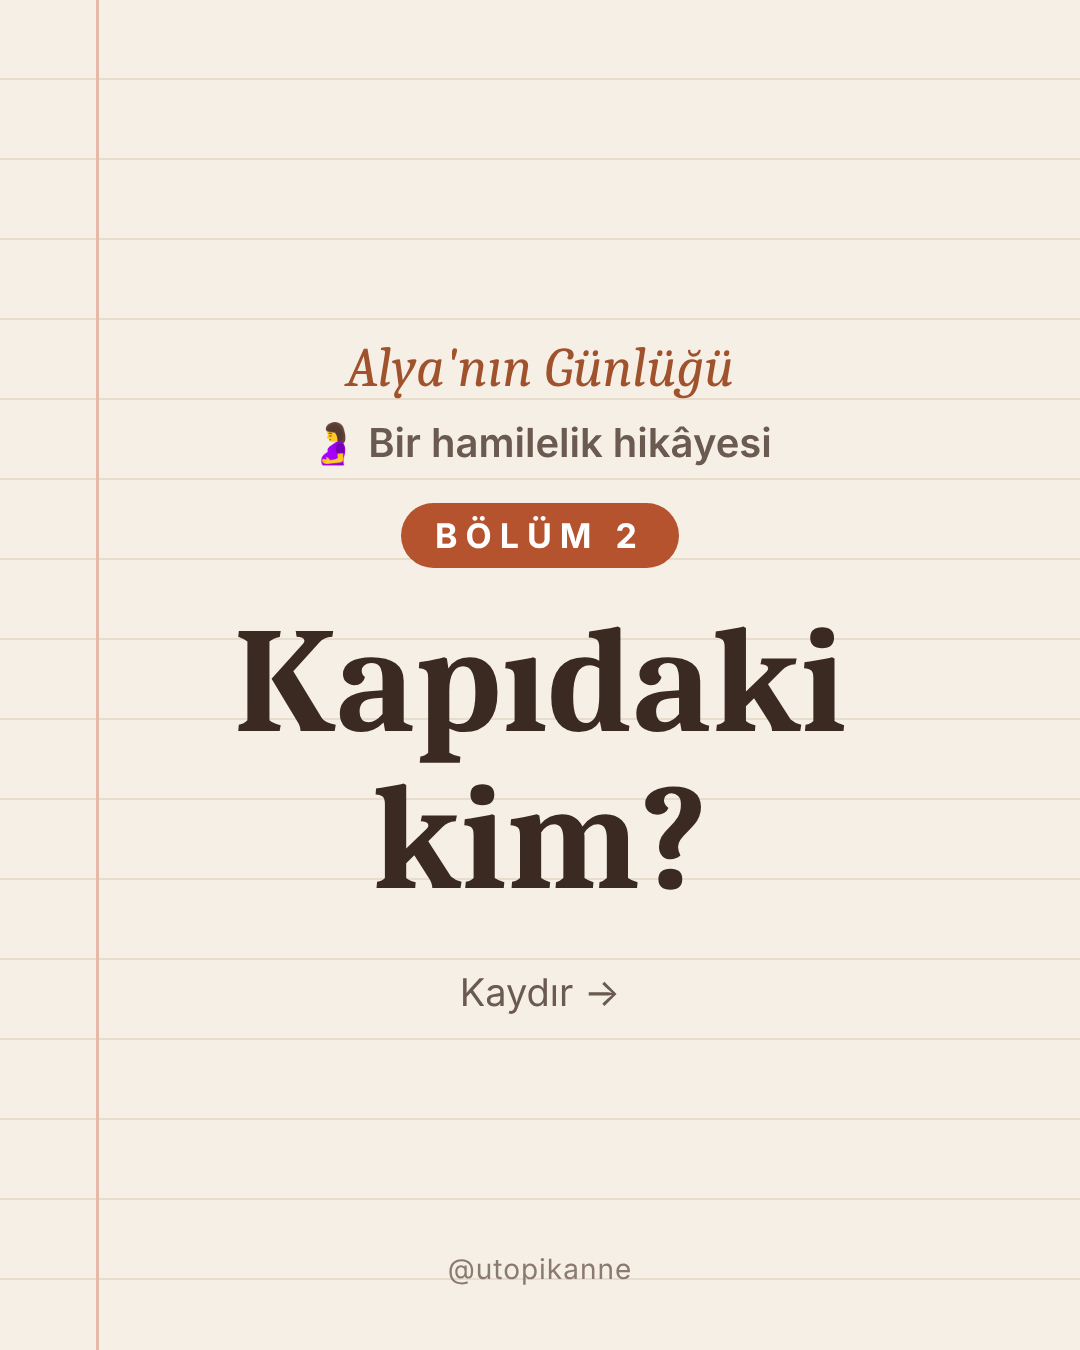
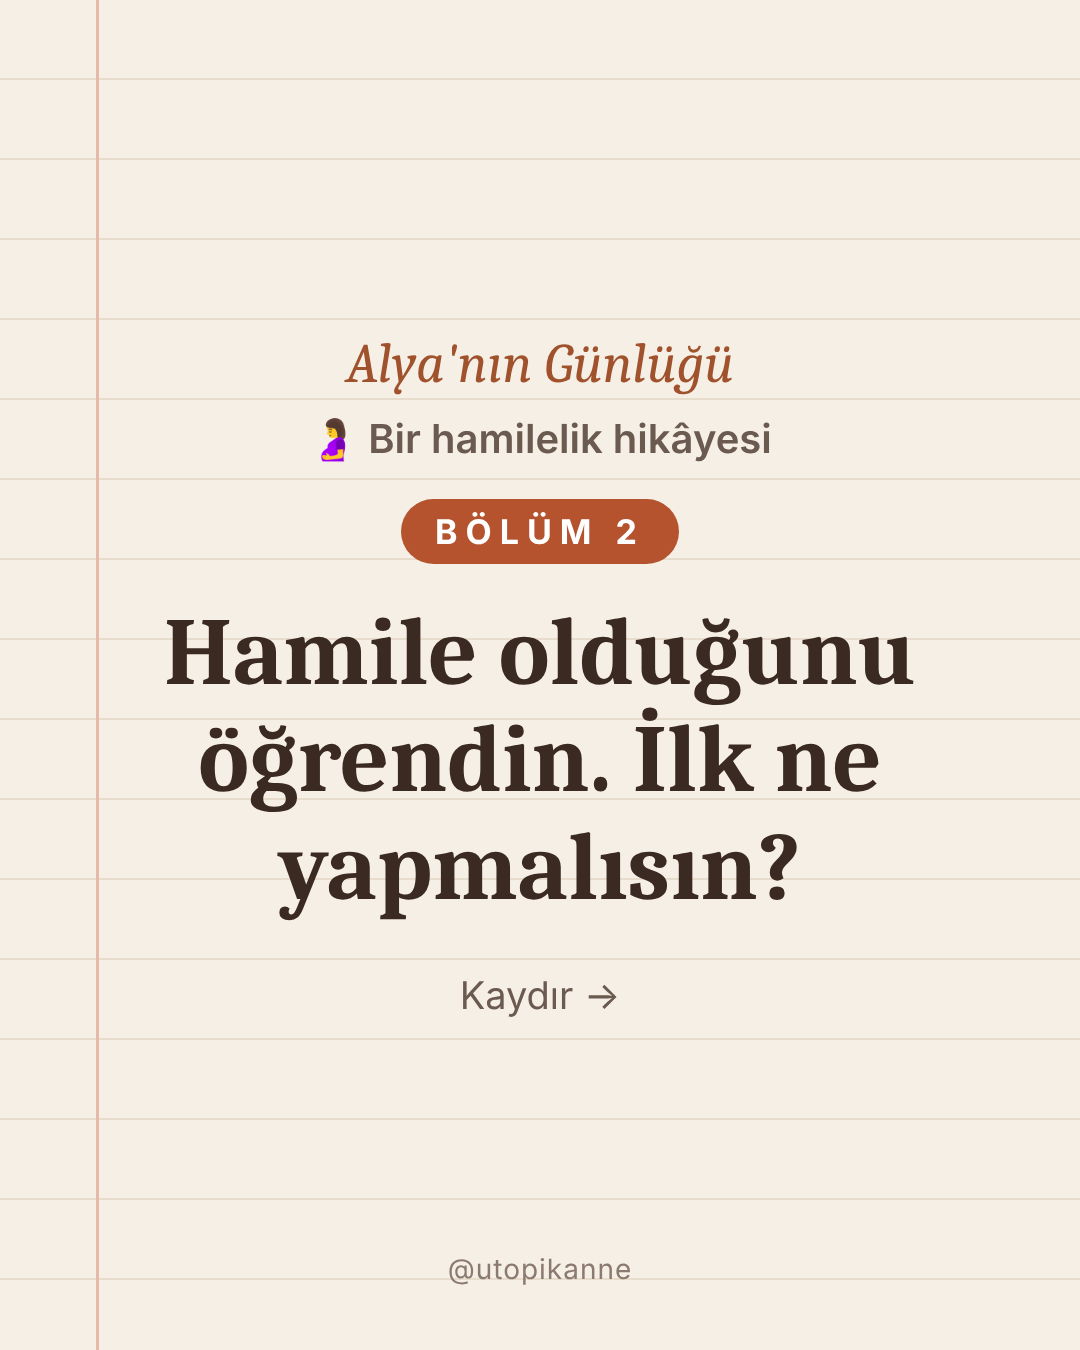
utopikanne: Alya Bölüm 2, bilgi sohbetin içinde, soru kapak
Claude-Session: https://claude.ai/code/session_01QGX4XsF2fmNtuvzmoWMg9N

diff --git a/araclar/alya_sohbet.py b/araclar/alya_sohbet.py
@@ -33,11 +33,12 @@ body:before{content:"";position:absolute;left:96px;top:0;bottom:0;width:3px;back
 .kapak .b{font-size:34px;font-weight:700;letter-spacing:8px;color:#fff;background:#B5532E;padding:12px 34px;border-radius:40px;margin:36px 0}
 .kapak .t{font-size:40px;font-weight:600;color:#6B5A50;margin-top:18px}
 .kapak h1{font-family:"Caladea",serif;font-size:150px;line-height:1.05;color:#3B2A22}
+.kapak h1.uzun{font-size:96px;line-height:1.12}
 .kapak .k{font-size:38px;color:#6B5A50;margin-top:50px}"""
 def sayfa(govde): return f'<!doctype html><html lang="tr"><head><meta charset="utf-8"><style>{CSS}</style></head><body>{govde}<div class="alt">@utopikanne</div></body></html>'
 pages = []
 k = d["kapak"]
-pages.append(sayfa(f'<div class="kapak"><div class="s">Alya\'nın Günlüğü</div><div class="t">{e(k.get("tur","🤰 Bir hamilelik hikâyesi"))}</div><div class="b">BÖLÜM {d["bolum"]}</div><h1>{e(k["baslik"])}</h1><div class="k">{e(k.get("alt","Kaydır →"))}</div></div>'))
+pages.append(sayfa(f'<div class="kapak"><div class="s">Alya\'nın Günlüğü</div><div class="t">{e(k.get("tur","🤰 Bir hamilelik hikâyesi"))}</div><div class="b">BÖLÜM {d["bolum"]}</div><h1 class="{"uzun" if len(k["baslik"])>20 else ""}">{e(k["baslik"])}</h1><div class="k">{e(k.get("alt","Kaydır →"))}</div></div>'))
 for s in d["sayfalar"]:
     g = f'<div class="ust"><div class="seri">Alya\'nın Günlüğü</div><div class="zaman">{e(s["zaman"])}</div></div>'
     if s.get("gunluk"): g += f'<div class="gunluk"><div class="ic">💭 Alya\'nın içinden</div>{e(s["gunluk"])}</div>'
